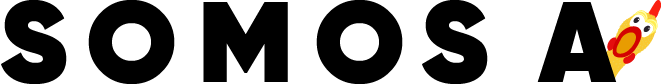
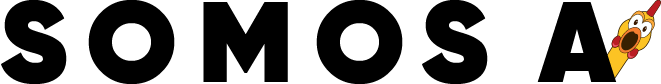
mudando icone titulo paginas

Changed region(s): [[0.9077, 0.0, 1.0, 0.7857], [0.9077, 0.8333, 0.938, 0.9048]]

diff --git a/_interface/cases.html b/_interface/cases.html
@@ -4,7 +4,7 @@
         <meta charset="utf-8" />
         <meta http-equiv="X-UA-Compatible" content="IE=edge">
         <title>Cases</title>
-        <link rel="shortcun icon" type="image/x-png" href="../_imagens/icone-adv6.png"/>
+        <link rel="shortcun icon" type="image/x-png" href="../_imagens/icone-adv6-creuza.png"/>
         <meta name="viewport" content="width=device-width, initial-scale=1">
         <link rel="stylesheet" type="text/css" href="../_css/estilo.css">
         <link rel="stylesheet" type="text/css" href="../_css/equipe.css">

diff --git a/_css/cases.css b/_css/cases.css
@@ -107,6 +107,31 @@ hr {
     background: none;
 }
 
+.bottom-menu{
+    display: flex;
+    flex-flow: column nowrap;
+    
+    justify-content: center;
+    background: #f1f1f1;
+    
+}
+.bottom-menu nav {
+    display: flex;
+    flex-flow: row nowrap;
+    justify-content: center;
+}
+.bottom-menu > nav:nth-of-type(1) a{
+    padding: 0 30px;
+}
+.bottom-menu > nav:nth-of-type(2) a{
+    padding: 20px 0;
+}
+.bottom-menu nav{
+    display: flex;
+}
+.bottom-menu nav img{
+    width: 40px;
+}
 /* imagens da .box*/
 
 #imagem-1 {

diff --git a/index.html b/index.html
@@ -2,7 +2,7 @@
 <html lang="pt-BR">
 <head>
     <title>Home</title>
-    <link rel="shortcun icon" type="image/x-png" href="_imagens/icone-adv6.png"/>
+    <link rel="shortcun icon" type="image/x-png" href="_imagens/icone-adv6-creuza.png"/>
 
     <meta charset="utf-8">
         <link rel="stylesheet" type="text/css" href="_css/estilo.css">

diff --git a/_interface/equipe.html b/_interface/equipe.html
@@ -2,7 +2,7 @@
 <html lang="pt-BR">
     <head>
         <title>Equipe</title>
-        <link rel="shortcun icon" type="image/x-png" href="../_imagens/icone-adv6.png"/>
+        <link rel="shortcun icon" type="image/x-png" href="../_imagens/icone-adv6-creuza.png"/>
 
         <meta charset="utf-8">
         
